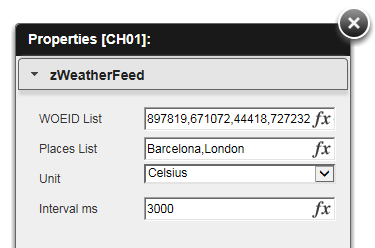
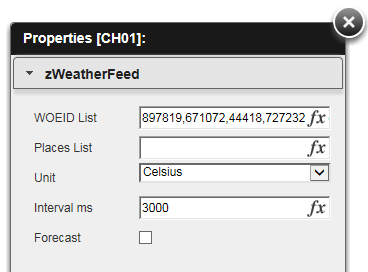
forecast

Changed region(s): [[0.0, 0.0282, 1.0, 1.0], [0.0897, 0.8185, 0.269, 0.9032], [0.0897, 0.7056, 0.269, 0.7903]]

diff --git a/zWeatherFeed/script.js b/zWeatherFeed/script.js
@@ -25,9 +25,6 @@ if(!window.console){ window.console = {log: function(){} }; }
 	Qv.LoadExtensionScripts(_files, 
 		function () {
 			Qva.AddExtension(_extension, function(){
-				//Load a CSS style sheet
-				Qva.LoadCSS((_webview ? _path : _pathLong) + "css/" + _extension + ".css");
-
 				var _this = this;
 				var objId = this.Layout.ObjectId.replace("\\", "_");
 
@@ -44,7 +41,16 @@ if(!window.console){ window.console = {log: function(){} }; }
 				//get unit Fahrenheit/Celsius
 				var unit = this.Layout.Text2.text.toString();		
 
+				//get inteval in milliseconds
 				var interval = this.Layout.Text3.text.toString() * 1;
+				
+				//get forecast
+				var forecast = (this.Layout.Text4.text.toString() === '1');
+				if (forecast) {
+					Qva.LoadCSS((_webview ? _path : _pathLong) + "css/" + _extension + "Forecast.css");
+				} else {
+					Qva.LoadCSS((_webview ? _path : _pathLong) + "css/" + _extension + ".css");
+				}
 				
 				var jqXHR = [];
 
@@ -87,30 +93,38 @@ if(!window.console){ window.console = {log: function(){} }; }
 					});				
 					
 				} else {
-					renderIt(_this,objId,woeids,unit,interval);
+					renderIt(_this,objId,woeids,unit,interval,forecast);
 				}
 
 			});
 		});
 
 
-	function renderIt(_this,_objId,_woeids,_unit,_interval) {
+	function renderIt(_this,_objId,_woeids,_unit,_interval,_forecast) {
 		if (_woeids.length > 0) {
+			//console.log(_woeids);
+			if (_forecast) {
+				_woeids = [_woeids[0]];
+				var outerDiv = $('<div />').addClass("weatherFeed").appendTo($(_this.Element).empty());
+				$('<div />').addClass("weatherItem").attr({
+								id: _objId 
+							}).appendTo(outerDiv);
+			} else {
+				var outerDiv = $('<div />').addClass("scrollable vertical").appendTo($(_this.Element).empty());
+				$('<div />').addClass("items").attr({
+								id: _objId 
+							}).appendTo(outerDiv);
+			}
 			var circus = (_woeids.length > 1);
-			console.log(_woeids);
-			var outerDiv = $('<div />').addClass("scrollable vertical").appendTo($(_this.Element).empty());
 			
-			$('<div />').addClass("items").attr({
-							id: _objId 
-						}).appendTo(outerDiv);
-
 			if (circus)
 				$('<div />').addClass("navi").appendTo($(_this.Element));
 			
 			if (_interval > 0 && circus) {
 				$('#'+_objId).weatherfeed(_woeids,{
 						woeid: true,
-						unit: _unit
+						unit: _unit,
+						forecast: _forecast
 					},function(e) {
 					$("div.scrollable").scrollable({ 
 							vertical: true,  
@@ -122,7 +136,8 @@ if(!window.console){ window.console = {log: function(){} }; }
 				if (circus) {
 					$('#'+_objId).weatherfeed(_woeids,{
 							woeid: true,
-							unit: _unit
+							unit: _unit,
+							forecast: _forecast
 						},function(e) {
 						$("div.scrollable").scrollable({ 
 								vertical: true,  
@@ -133,7 +148,8 @@ if(!window.console){ window.console = {log: function(){} }; }
 				} else {
 					$('#'+_objId).weatherfeed(_woeids,{
 							woeid: true,
-							unit: _unit
+							unit: _unit,
+							forecast: _forecast
 						});
 				}
 			}	

diff --git a/zWeatherFeed/css/zWeatherFeedForecast.css b/zWeatherFeed/css/zWeatherFeedForecast.css
@@ -1,0 +1,52 @@
+@charset "UTF-8";
+
+.weatherFeed {
+    font-family: Arial,Helvetica,sans-serif;
+    font-size: 90%;
+    width: 280px;
+}
+.weatherFeed a {
+    color: #888;
+}
+.weatherFeed a:hover {
+    color: #000;
+    text-decoration: none;
+}
+.weatherItem {
+    padding: 0.8em;
+    text-align: right;
+}
+.weatherCity {
+    text-transform: uppercase;
+}
+.weatherTemp {
+    font-size: 2.8em;
+    font-weight: bold;
+}
+.weatherDesc, .weatherCity, .weatherForecastDay {
+    font-weight: bold;
+}
+.weatherDesc {
+    margin-bottom: 0.4em;
+}
+.weatherRange, .weatherWind, .weatherLink, .weatherForecastItem {
+    font-size: 0.8em;
+}
+.weatherLink, .weatherForecastItem {
+    margin-top: 0.5em;
+    text-align: left;
+}
+.weatherForecastItem {
+    background-color: #fff;
+    background-position: left center;
+    padding: 0.5em 0.5em 0.5em 80px;
+}
+.weatherForecastDay {
+    font-size: 1.1em;
+}
+.odd {
+    background-color: #e8e8fc;
+}
+.even {
+    background-color: #d4d4e8;
+}

diff --git a/README.md b/README.md
@@ -4,7 +4,7 @@ QlikView Extensions zWeather Feed
 This extension implements zWeatherFeed Yahoo! Weather Feed Plugin for jQuery: http://www.zazar.net/developers/jquery/zweatherfeed/
 
 ![QlikView Extensions zWeather Feed](screenshot.PNG)
-
+![QlikView Extensions zWeather Feed](screenshot2.PNG)
 ![QlikView Extensions zWeather Feed](properties.PNG)
 
 Properties:
@@ -12,4 +12,5 @@ Properties:
 2. Places List: a list of places (eg. Barcelona,Istanbul) if you don't have WOEIDs,
                 it will query Yahoo API to obtain WOEIDs and store it in the field above
 3. Unit       : unit for temperature (Celsius/Fahrenheit)
-4. Interval ms: interval for scrolling multiple places in milliseconds 
+4. Interval ms: interval for scrolling multiple places in milliseconds
+5. Forecast   : shows weather forecast for first WOEID (press F5 for rerender)
